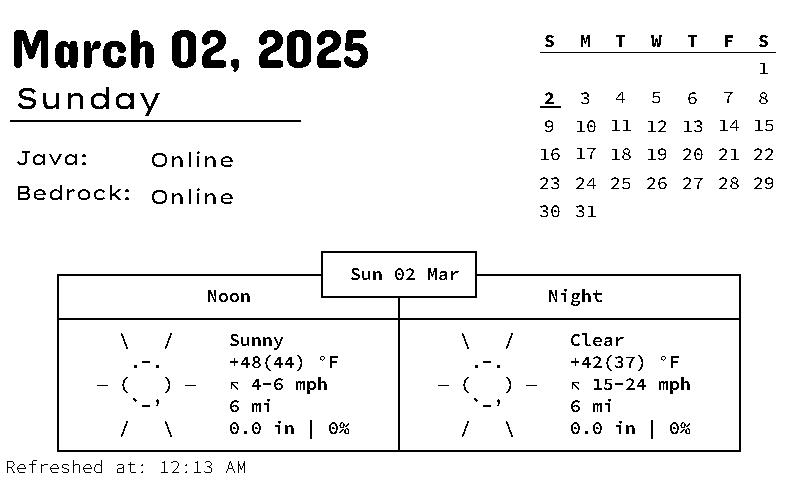
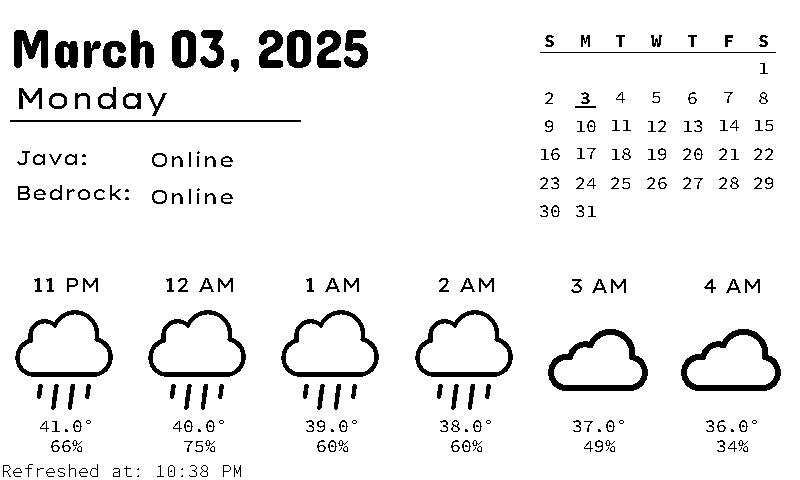
Changed to accuweather

diff --git a/display.py b/display.py
@@ -32,6 +32,10 @@ import PIL.ImageOps
 import calendar
 import time
 
+import requests
+import json
+from dotenv import load_dotenv
+
 from mcstatus import JavaServer, BedrockServer
 
 # logging.basicConfig(level=logging.DEBUG)
@@ -64,7 +68,7 @@ def genImage(width=800, height=480):
     draw = ImageDraw.Draw(Himage)
     
     getCalendar(draw)
-    getWeather(draw)
+    getWeather(draw, Himage)
     getMCStatus(draw)
 
     now = datetime.now()
@@ -78,44 +82,61 @@ def genImage(width=800, height=480):
     draw.text((10, 0), date_str, 'black', Bfont)
     draw.line((10, 120, 300, 120), fill='black', width=2)
 
-    draw.text((5, 475), f"Refreshed at: {time_str}", 'black', SSmono, anchor="lb")
+    draw.text((1, 479), f"Refreshed at: {time_str}", 'black', SSmono, anchor="lb")
 
     return Himage
 
 
 
 
-def getWeather(draw: ImageDraw.ImageDraw):
+def getWeather(draw: ImageDraw.ImageDraw, image: Image.Image):
     
 
     if (len(sys.argv) == 1):
         print("Fetching Weather")
 
-        # currentCommand = """curl -s "https://wttr.in/Syracuse+Utah?0FQT" > data/current.txt """
-        # os.system(currentCommand)
+        load_dotenv()  # Load environment variables from .env
 
-        # time.sleep(2)
+        apiKey = os.getenv("ACCUWEATHER_API_KEY")
+        locationKey = os.getenv("ACCUWEATHER_LOCATION_KEY")
+        url = f"http://dataservice.accuweather.com/forecasts/v1/hourly/12hour/{locationKey}?apikey={apiKey}"
 
-        dayCommand = """curl -s "https://wttr.in/Syracuse+Utah?1FQTn" > data/day.txt """
-        os.system(dayCommand)
+        apiData = requests.get(url).json()
+
+        with open("data/data.json", "w") as f:
+            json.dump(apiData, f, indent=4)
 
     else:
         print("Skipping Weather Fetch")
 
-    # Read files
-    # f = open("data/current.txt", "r")
-    # current = f.read()
-    # f.close()
+    # Read file
+    data = readJSON("data/data.json")
 
-    f = open("data/day.txt", "r")
-    day = f.read()
-    f.close()
+    # Screen width is 800
+    dx = 800 / 6
+    shift = dx / 2
+
+    index = -1
+    for hour in data[:6]: # Only do the next 6 hours
+        index += 1
+
+        time = datetime.fromisoformat(hour["DateTime"])
+        timestr = time.strftime("%l %p").strip()
+        draw.text((index * dx + shift, 285), timestr, "black", subSubFont, anchor="mm")
+
+        icon = getWeatherIcon(hour["WeatherIcon"])
+        image.paste(icon, (int(index * dx + 15), 310), icon)
+
+        temp = hour["Temperature"]["Value"]
+        draw.text((index * dx + shift, 426), f"{temp}°", "black", SSmono, anchor="mm")
+
+        if (hour["PrecipitationProbability"]):
+            prob = hour["PrecipitationProbability"]
+            draw.text((index * dx + shift, 445), f"{prob}%", "black", SSmono, anchor="mm")
 
 
-    day = "\n".join(day.splitlines()[5:])
-    # print(SSmono.get_variation_names())
-    SSmono.set_variation_by_name("SemiBold")
-    draw.text((400, 350), day, "black", SSmono, anchor="mm")
+
+
 
 def getCalendar(draw: ImageDraw.ImageDraw):
 
@@ -233,6 +254,44 @@ def getMCStatus(draw: ImageDraw.ImageDraw):
     else:
         draw.text((x + 140, y + 44), "Online", "black", subSubFont)
 
+
+
+
+
+def readJSON(file_path):
+    try:
+        with open(file_path, 'r') as file:
+            data = json.load(file)
+        return data
+    except FileNotFoundError:
+        print(f"Error: File not found: {file_path}")
+        return None
+    except json.JSONDecodeError:
+        print(f"Error: Invalid JSON format in: {file_path}")
+        return None
+def getWeatherIcon(icon_code):
+    name = ""
+
+    if icon_code in [1, 2]:  # Sunny
+        name = "sunny.png"
+    elif icon_code in [3, 4, 5, 6]:  # Partly Cloudy
+        name = "cloudy_partial.png"
+    elif icon_code in [7, 8, 11]:  # Cloudy or Fog
+        name = "cloudy.png" if icon_code != 11 else "fog.png"
+    elif icon_code in [12, 13, 14, 26, 29]:  # Rain
+        name = "rain.png"
+    elif icon_code in [15, 16, 17, 18]:  # Thunderstorms
+        name = "thunder.png"
+    elif icon_code in [19, 20, 21, 22]:  # Snow
+        name = "snow.png"
+    elif icon_code in [23, 24, 25]:  # Rain and snow mix
+        name = "rain_partial.png"
+    else:
+        print("Code:", icon_code)
+        name = "cloudy_partial.png"
+
+    im = Image.open(f"icons/pngs/{name}")
+    return im.resize((100, 100), Image.Resampling.NEAREST)
 
 try:
     main()
